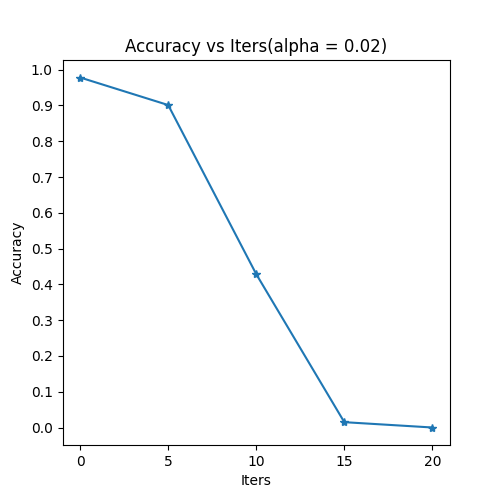
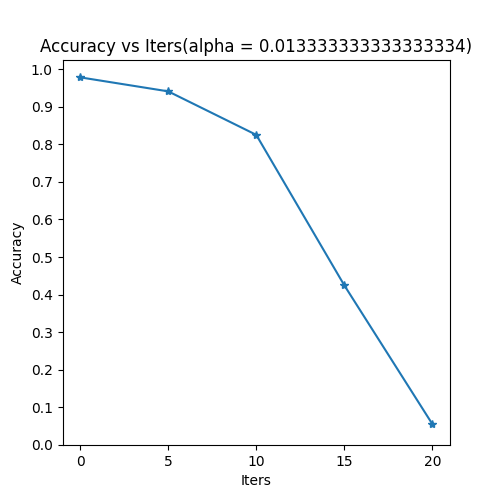
attack_MIFGSM_update

diff --git a/pictures/picture_MNIST_MIFGSM.py b/pictures/picture_MNIST_MIFGSM.py
@@ -1,0 +1,75 @@
+import os
+
+import numpy as np
+from matplotlib import pyplot as plt
+from log_config import logger
+
+
+class Picture_MNIST_MIFGSM:
+    def __init__(self, config):
+        # 扰动参数列表
+        self.epsilons = config.epsilons
+        # 正确率
+        self.accuracies = config.accuracies
+        # 生成的对抗样本
+        self.examples = config.examples
+        # 图片保存路径
+        self.plt_path = config.plt_path
+        self.alpha = config.alpha
+
+    def draw(self):
+        # 3.绘图,用于可视化
+        # 创建一个新的图形对象，图形大小设置为 5x5 英寸
+        plt.figure(figsize=(5, 5))
+        # 用epsilons作为x轴数据，accuracies作为y轴数据
+        # *-代表数据点用*标记，点之间用直线链接
+        plt.plot(self.epsilons, self.accuracies, "*-")
+        # 设置y轴刻度，
+        # np.arange(0, 1.1, step=0.1)生成0~1的数组，步长为0.1
+        plt.yticks(np.arange(0, 1.1, step=0.1))
+        # 设置x轴刻度
+        # 最大需要大一个步长
+        plt.xticks(np.arange(0, 25, step=5))
+        # 将图标标题设为Accuracy vs Iters
+        plt.title(f"Accuracy vs Iters(alpha = {self.alpha})")
+        # x轴标签为Epsilon
+        plt.xlabel("Iters")
+        # y轴标签为Accuracy
+        plt.ylabel("Accuracy")
+
+        pic_name = 'MNIST_MIFSGM1.png'
+        # 图片不存在的时候再保存
+        if not os.path.exists(os.path.join(self.plt_path, pic_name)):
+            plt.savefig(os.path.join(self.plt_path, pic_name))
+            logger.info(f'save {pic_name} successfully')
+        else:
+            logger.warning(f'{pic_name} is saved')
+
+        # 显示图表
+        plt.show()
+        cnt = 0
+        plt.figure(figsize=(8, 10))
+        # 行代表不同的epsilon
+        for i in range(len(self.epsilons)):
+            # 列代表同一epsilon生成的图像
+            for j in range(len(self.examples[i])):
+                cnt += 1
+                plt.subplot(len(self.epsilons), len(self.examples[0]), cnt)
+                plt.xticks([], [])
+                plt.yticks([], [])
+                if j == 0:
+                    plt.ylabel("Eps: {}".format(self.epsilons[i]), fontsize=14)
+                orig, adv, ex = self.examples[i][j]
+                plt.title("{} -> {}".format(orig, adv))
+                plt.imshow(ex, cmap="gray")
+        plt.tight_layout()
+
+        # 保存图片
+        pic_name = 'MNIST_MIFSGM2.png'
+        if not os.path.exists(os.path.join(self.plt_path, pic_name)):
+            plt.savefig(os.path.join(self.plt_path, pic_name))
+            logger.info(f'save {pic_name} successfully')
+        else:
+            logger.warning(f'{pic_name} is saved')
+
+        plt.show()

diff --git a/attack_flow.py b/attack_flow.py
@@ -1,10 +1,14 @@
 # 用于测试FGSM方法根据不同扰动对准确率的影响
+import os.path
 import time
 
+import numpy as np
 import torch
+from PIL import Image
 from torchvision import transforms
 
-from utils.denorm import denorm
+from log_config import logger
+from utils.mkdir import mkdir
 
 
 def attack_flow(eps, attacker, model, val_DataLoader, config):
@@ -70,10 +74,36 @@ def attack_flow(eps, attacker, model, val_DataLoader, config):
                 adv_ex = perturbed_data.squeeze().detach().cpu().numpy()
                 adv_examples.append((init_pred.item(), final_pred.item(), adv_ex))
 
-    # Calculate final accuracy for this epsilon
+
+    # 计算当前epsilon下的最终准确率
     final_acc = accuracy / float(len(val_DataLoader))
     end_time = time.time()
     print(
-        f"Epsilon: {eps}\tTest Accuracy = {accuracy} / {len(val_DataLoader)} = {final_acc},Time = {end_time - start_time}")
+        f"Epsilon: {eps}\tTest Accuracy = {accuracy} / {len(val_DataLoader)} = {final_acc}, Time = {end_time - start_time}")
+
+    # 将对抗样本保存为图片
+    for i, (init_pred, final_pred, adv_ex) in enumerate(adv_examples):
+        # 将图像归一化到0-255范围并转换为uint8类型
+        adv_ex = (adv_ex * 255).astype(np.uint8)
+        if adv_ex.shape[0] == 1:  # 如果是单通道图像，调整为(height, width)形状
+            adv_ex = adv_ex[0]
+        img = Image.fromarray(adv_ex)  # 使用PIL库将NumPy数组转换为图片
+
+        # 保存对抗样本图片
+        # 创建多级文件夹，防止生成结果太乱了
+        adv_dir = os.path.join(config.adv_path, config.attack)
+        mkdir(adv_dir)
+        adv_dir = os.path.join(adv_dir, config.dataset)
+        mkdir(adv_dir)
+        adv_dir = os.path.join(adv_dir, str(eps))
+        mkdir(adv_dir)
+
+        adv_path = os.path.join(adv_dir, f"{i}_{init_pred}->{final_pred}.png")
+        # 如果图片尚未保存
+        if not os.path.exists(adv_path):
+            img.save(adv_path)  # 保存图片到本地，文件名包含初始预测标签和最终预测标签
+            logger.info(f"Adversarial example {i} saved")
+        else:
+            logger.warning(f"Adversarial example {i} has been saved!")
     # Return the accuracy and an adversarial example
     return final_acc, adv_examples

diff --git a/config.py b/config.py
@@ -12,7 +12,7 @@ parser = argparse.ArgumentParser(description='select model dataset attack')
 
 parser.add_argument('-m', '--model', type=str, required=True, choices=['MNIST'], help='model type')
 parser.add_argument('-d', '--dataset', type=str, required=True, choices=['MNIST'], help='dataset type')
-parser.add_argument('-a', '--attack', type=str, required=True, choices=['FGSM', 'IFGSM'], help='attack type')
+parser.add_argument('-a', '--attack', type=str, required=True, choices=['FGSM', 'IFGSM', 'MIFGSM'], help='attack type')
 
 # 进行参数解析
 args = parser.parse_args()
@@ -54,6 +54,7 @@ class Config:
 
     # FGSM中代表扰动参数
     # IFGSM中代表迭代轮数
+    # MIFGSM中代表迭代轮数
     epsilons = [0, .05, .1, .15, .2, .25, .3]
 
     # 记录不同扰动下的准确度
@@ -63,12 +64,17 @@ class Config:
 
     # plt生成图像保存的文件夹路径
     plt_path = 'results/plt_pics'
+    # adv_pics图像保存路劲
+    adv_path = 'results/adv_pics'
 
     # IFGSM所需的参数
+    # MIFGSM所需的参数
     # 迭代步长
-    alpha = 1/50
-    # 迭代次数
-    # iters = 10
+    alpha = 1/75
+
+    # MIFGSM所需的参数
+    # 动量
+    momentum = 0.9
 
     # 显示参数
     def display(self):
@@ -85,9 +91,16 @@ class Config:
         print('------------DataLoader------------')
         print(f'batch_size: {self.batch_size}')
         print(f'shuffle: {self.shuffle}')
+        print('------------Save Path------------')
+        print(f'adv_path: {self.adv_path}')
+        print(f'plt_path: {self.plt_path}')
         if self.attack == 'IFGSM':
             print('------------IFGSM Attack------------')
             print(f'alpha: {self.alpha}')
+        if self.attack == 'MIFGSM':
+            print('------------MIFGSM Attack------------')
+            print(f'alpha: {self.alpha}')
+            print(f'momentum: {self.momentum}')
 
 
 if __name__ == '__main__':

diff --git a/attacks/attack_MIFGSM.py b/attacks/attack_MIFGSM.py
@@ -1,0 +1,36 @@
+import torch
+import torch.nn.functional as F
+
+from utils.denorm import denorm
+
+
+class attack_MIFGSM:
+    def __init__(self, model, config):
+        self.config = config
+        self.model = model
+
+    def attack(self, image, epsilon, label):
+        perturbed_image = image.clone().detach().to(self.config.device)
+        # 反向归一化处理
+        perturbed_image = denorm(perturbed_image, self.config.device)
+        # 创建一个shape和perturbed_image相同的tensor类型张量，但是所有参数都为0
+        # 相当于公式中的g~0~参数，论文要求一开始初始化为0
+        momentum = torch.zeros_like(perturbed_image).to(self.config.device)
+        for _ in range(epsilon):
+            perturbed_image = perturbed_image.clone().detach().to(self.config.device)
+            perturbed_image.requires_grad = True
+            output = self.model(perturbed_image)
+            loss = F.nll_loss(output, label)
+            self.model.zero_grad()
+            loss.backward()
+
+            # 计算梯度
+            grad = perturbed_image.grad.data
+            # 相当于计算公式中的分数部分的值
+            # grad.abs().sum(dim=(1, 2, 3), keepdim=True)相当于计算分母，也就是梯度的L1范式
+            normalized_grad = grad / grad.abs().sum(dim=(1, 2, 3), keepdim=True)
+            momentum = self.config.momentum * momentum + normalized_grad
+            perturbed_image = perturbed_image + self.config.alpha * momentum.sign()
+            perturbed_image = torch.clamp(perturbed_image, 0, 1).detach()
+
+        return perturbed_image

diff --git a/test_src/attack.py b/test_src/attack.py
@@ -1,0 +1,55 @@
+import os
+
+import torch
+from PIL import Image
+
+from log_config import logger
+from attacks.attack_IFGSM import attack_IFGSM
+from attacks.attack_MIFGSM import attack_MIFGSM
+from test_src.test_config import test_Config
+from models.model_MNIST import model_MNIST
+
+pic_path = '../results/adv_pics/FGSM/MNIST/0/0_4->4.png'
+model_MNIST_path = '../assets/Pre-training_files/model_MNIST_10.pth'
+
+
+config = test_Config()
+# 如果预训练模型未找到 则加载文件
+if os.path.exists(model_MNIST_path):
+    logger.info('MNIST model loaded')
+    # 加载字典形式的预训练模型，并使用GPU训练
+    # 定义和导入参数这两句还得分开写
+    model = model_MNIST().to(config.device)
+    model.load_state_dict(torch.load(model_MNIST_path))
+else:
+    # 预训练模型未找到
+    logger.critical('model_MNIST_path model not find')
+    exit()
+
+# print(f'model loaded: {model}')
+model.eval()
+# 定义转换
+
+# 加载图像
+img = Image.open(pic_path)
+
+# 应用转换
+img_tensor = config.transform(img)
+attack1 = attack_IFGSM(model, config)
+attack2 = attack_MIFGSM(model, config)
+# 创建长度为10的全零张量
+label = torch.zeros(10)
+
+# 将下标为4的位置设置为1
+label[4] = 1
+# 添加维度
+img_tensor = img_tensor.unsqueeze(0)  # 在第0维上添加维度
+label = torch.tensor([4]).unsqueeze(0)
+
+pic1 = attack1.attack(img_tensor, 1, label)
+pic2 = attack2.attack(img_tensor, 1, label)
+
+if pic1 == pic2:
+    print('same')
+else:
+    print('different')

diff --git a/attacks/attack_zoo.py b/attacks/attack_zoo.py
@@ -1,18 +1,25 @@
-from attacks.attack_FGSM import attack_FGSM
-from attacks.attack_IFGSM import attack_IFGSM
 from log_config import logger
 
 
 # 获取目标模型
 def get_attack(model, val_DataLoader, config):
     if config.attack == 'FGSM':
+        from attacks.attack_FGSM import attack_FGSM
         attacker = attack_FGSM(model, config)
         config.epsilons = [0, .05, .1, .15, .2, .25, .3]
         logger.info('FGSM attack loaded')
         logger.info(f'FGSM epsilons: {config.epsilons}')
         return attacker
     elif config.attack == 'IFGSM':
+        from attacks.attack_IFGSM import attack_IFGSM
         attacker = attack_IFGSM(model, config)
+        config.epsilons = [0, 5, 10, 15, 20]
+        logger.info('IFGSM attack loaded')
+        logger.info(f'IFGSM iters: {config.epsilons}')
+        return attacker
+    elif config.attack == 'MIFGSM':
+        from attacks.attack_MIFGSM import attack_MIFGSM
+        attacker = attack_MIFGSM(model, config)
         config.epsilons = [0, 5, 10, 15, 20]
         logger.info('IFGSM attack loaded')
         logger.info(f'IFGSM iters: {config.epsilons}')

diff --git a/pictures/picture_zoo.py b/pictures/picture_zoo.py
@@ -4,7 +4,7 @@ from log_config import logger
 # 根据不同的攻击方式绘制图片
 def get_picture(config):
     if config.dataset == 'MNIST' and config.attack == 'FGSM':
-        from pictures.picture_MNIST_FSGM import Picture_MNIST_FSGM
+        from pictures.picture_MNIST_FGSM import Picture_MNIST_FSGM
         logger.info('print pictures')
         picture = Picture_MNIST_FSGM(config)
         picture.draw()
@@ -12,6 +12,11 @@ def get_picture(config):
         from pictures.picture_MNIST_IFGSM import Picture_MNIST_IFGSM
         logger.info('print pictures')
         picture = Picture_MNIST_IFGSM(config)
+        picture.draw()
+    elif config.dataset == 'MNIST' and config.attack == 'MIFGSM':
+        from pictures.picture_MNIST_MIFGSM import Picture_MNIST_MIFGSM
+        logger.info('print pictures')
+        picture = Picture_MNIST_MIFGSM(config)
         picture.draw()
     else:
         logger.warning('don\'t have pictures')

diff --git a/test_src/test_config.py b/test_src/test_config.py
@@ -1,0 +1,23 @@
+import torch
+import torchvision.transforms as transforms
+
+
+class test_Config:
+    def __init__(self):
+        self.train_gpu = '1'
+        self.device = torch.device('cuda:' + self.train_gpu if torch.cuda.is_available() else 'cpu')
+        self.model = 'MNIST'
+        self.download = False
+        self.transform = transforms.Compose([
+            transforms.ToTensor(),
+            transforms.Normalize((0.1307,), (0.3081,))
+        ])
+        self.batch_size = 1
+        self.shuffle = True
+        self.epsilons = [0, .05, .1, .15, .2, .25, .3]
+        self.accuracies = []
+        self.examples = []
+        self.plt_path = 'results/plt_pics'
+        self.adv_path = 'results/adv_pics'
+        self.alpha = 1 / 75
+        self.momentum = 0.9

diff --git a/utils/mkdir.py b/utils/mkdir.py
@@ -1,0 +1,9 @@
+# 用于新建文件夹
+import os
+from loguru import logger
+
+
+def mkdir(path):
+    if not os.path.exists(path):
+        os.makedirs(path)
+        logger.info(f"First_save:Created {path}")
